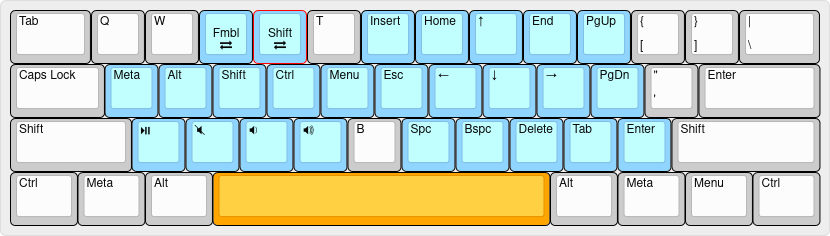
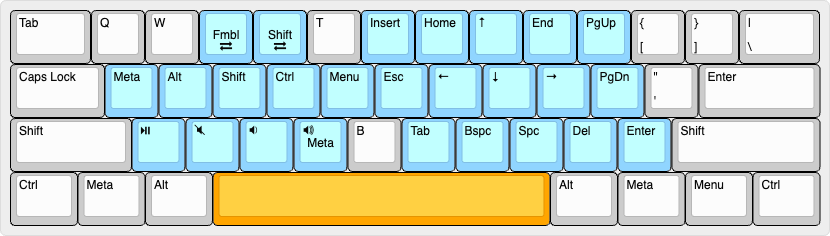
Re-arrange extend layer.

diff --git a/README.md b/README.md
@@ -41,7 +41,7 @@ The bottom row contains layer keys to quickly access funciton, number and symbol
 
 The spacebar is also a layer key and behaves as an entry point to the following layers, defaulting to the Extend layer described below.
   
-#### [Extend](https://www.keyboard-layout-editor.com/##@_name=extend;&@_w:1.5;&=Tab&=Q&=W&_c=#90D5FF&a:5;&=%0A%3Ci%20class/='fa%20fa-exchange'%3E%3C//i%3E%0A%0A%0A%0A%0AFmbl&=%0A%3Ci%20class/='fa%20fa-exchange'%3E%3C//i%3E%0A%0A%0A%0A%0AShift&_c=#cccccc&a:4;&=T&_c=#90D5FF;&=Insert&=Home&=%E2%86%91&=End&=PgUp&_c=#cccccc;&=%7B%0A%5B&=%7D%0A%5D&_w:1.5;&=%7C%0A%5C;&@_w:1.75;&=Caps%20Lock&_c=#90D5FF;&=Meta&=Alt&=Shift&=Ctrl&=Menu&=Esc&=%E2%86%90&=%E2%86%93&=%E2%86%92&=PgDn&_c=#cccccc;&=%22%0A'&_w:2.25;&=Enter;&@_w:2.25;&=Shift&_c=#90D5FF;&=%3Ci%20class/='kb%20kb-Multimedia-Play-Pause'%3E%3C//i%3E&=%3Ci%20class/='kb%20kb-Multimedia-Mute-2'%3E%3C//i%3E&=%3Ci%20class/='kb%20kb-Multimedia-Volume-Down-2'%3E%3C//i%3E&=%3Ci%20class/='kb%20kb-Multimedia-Volume-Up-2'%3E%3C//i%3E&_c=#cccccc;&=B&_c=#90D5FF;&=Spc&=Bspc&=Delete&=Tab&=Enter&_c=#cccccc&w:2.75;&=Shift;&@_w:1.25;&=Ctrl&_w:1.25;&=Meta&_w:1.25;&=Alt&_c=#FFA500&a:7&w:6.25;&=&_c=#cccccc&a:4&w:1.25;&=Alt&_w:1.25;&=Meta&_w:1.25;&=Menu&_w:1.25;&=Ctrl)
+#### [Extend](https://www.keyboard-layout-editor.com/##@_name=extend;&@_w:1.5;&=Tab&=Q&=W&_c=#90D5FF&a:5;&=%0A%3Ci%20class/='fa%20fa-exchange'%3E%3C//i%3E%0A%0A%0A%0A%0AFmbl&=%0A%3Ci%20class/='fa%20fa-exchange'%3E%3C//i%3E%0A%0A%0A%0A%0AShift&_c=#cccccc&a:4;&=T&_c=#90D5FF;&=Insert&=Home&=%E2%86%91&=End&=PgUp&_c=#cccccc;&=%7B%0A%5B&=%7D%0A%5D&_w:1.5;&=%7C%0A%5C;&@_w:1.75;&=Caps%20Lock&_c=#90D5FF;&=Meta&=Alt&=Shift&=Ctrl&=Menu&=Esc&=%E2%86%90&=%E2%86%93&=%E2%86%92&=PgDn&_c=#cccccc;&=%22%0A'&_w:2.25;&=Enter;&@_w:2.25;&=Shift&_c=#90D5FF;&=%3Ci%20class/='kb%20kb-Multimedia-Play-Pause'%3E%3C//i%3E&=%3Ci%20class/='kb%20kb-Multimedia-Mute-2'%3E%3C//i%3E&=%3Ci%20class/='kb%20kb-Multimedia-Volume-Down-2'%3E%3C//i%3E&=%3Ci%20class/='kb%20kb-Multimedia-Volume-Up-2'%3E%3C//i%3E%0A%0A%0A%0A%0A%0A%0A%0A%0AMeta&_c=#cccccc;&=B&_c=#90D5FF;&=Tab&=Bspc&=Spc&=Del&=Enter&_c=#cccccc&w:2.75;&=Shift;&@_w:1.25;&=Ctrl&_w:1.25;&=Meta&_w:1.25;&=Alt&_c=#FFA500&a:7&w:6.25;&=&_c=#cccccc&a:4&w:1.25;&=Alt&_w:1.25;&=Meta&_w:1.25;&=Menu&_w:1.25;&=Ctrl)
   
 ![Extend layer image](images/extend.png)
 
